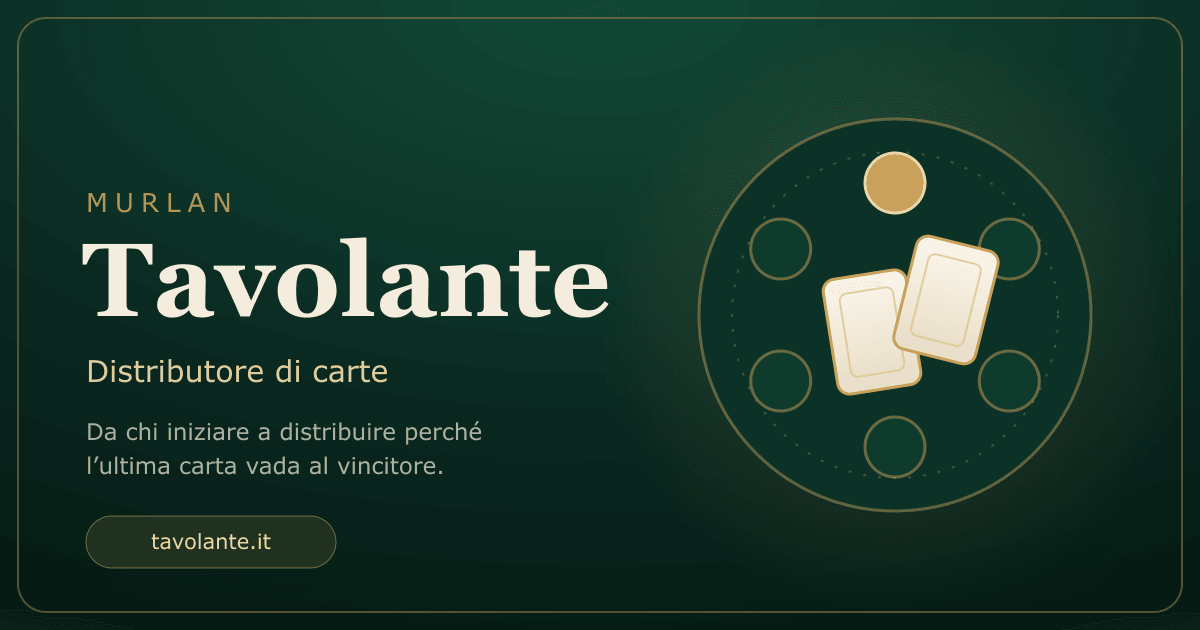
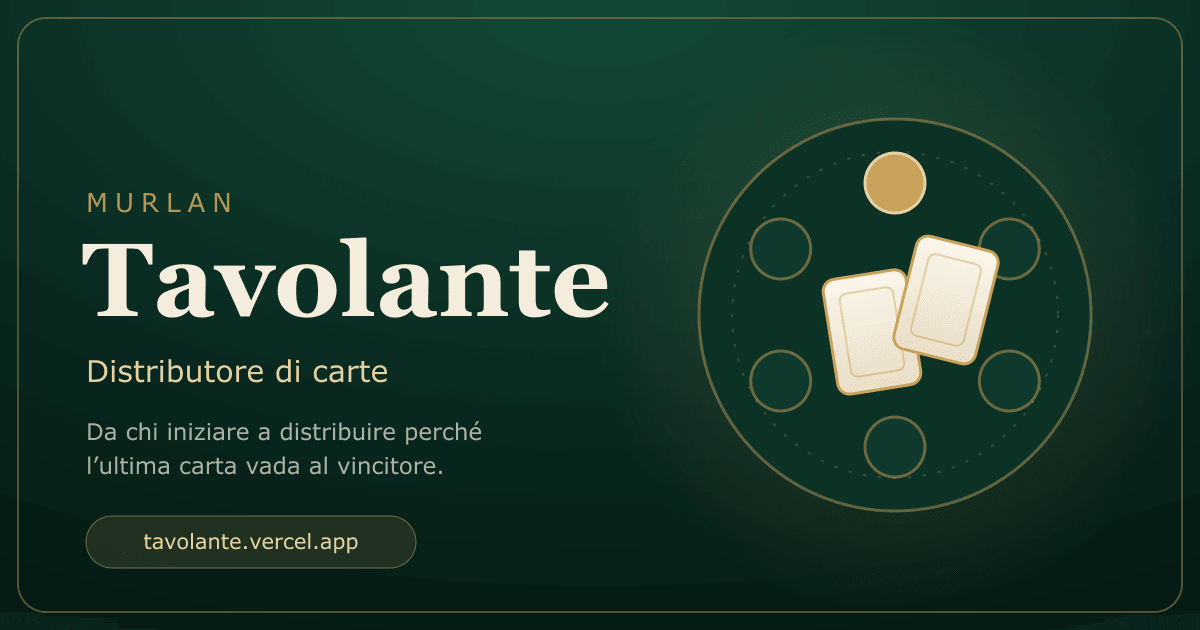
small fixes

Changed region(s): [[0.1233, 0.8143, 0.37, 0.9048], [0.6167, 0.1508, 0.74, 0.2714]]

diff --git a/index.html b/index.html
@@ -25,7 +25,7 @@
       name="description"
       content="Tavolante calcola da quale giocatore iniziare a distribuire perché l'ultima carta arrivi al vincitore della mano precedente. Gratis e installabile."
     />
-    <link rel="canonical" href="https://tavolante.it/" />
+    <link rel="canonical" href="https://tavolante.vercel.app/" />
     <meta name="robots" content="index, follow, max-image-preview:large" />
     <meta name="application-name" content="Tavolante" />
     <meta name="color-scheme" content="dark" />
@@ -36,7 +36,7 @@
     <meta property="og:type" content="website" />
     <meta property="og:site_name" content="Tavolante" />
     <meta property="og:locale" content="it_IT" />
-    <meta property="og:url" content="https://tavolante.it/" />
+    <meta property="og:url" content="https://tavolante.vercel.app/" />
     <meta
       property="og:title"
       content="Tavolante — Distributore di carte per il Murlan"
@@ -45,7 +45,10 @@
       property="og:description"
       content="Da chi iniziare a distribuire perché l'ultima carta arrivi al vincitore della mano precedente. Scegli giocatori, mazzo e senso: ci pensa Tavolante."
     />
-    <meta property="og:image" content="https://tavolante.it/og-cover.png" />
+    <meta
+      property="og:image"
+      content="https://tavolante.vercel.app/og-cover.png"
+    />
     <meta property="og:image:type" content="image/png" />
     <meta property="og:image:width" content="1200" />
     <meta property="og:image:height" content="630" />
@@ -62,7 +65,10 @@
       name="twitter:description"
       content="Da chi iniziare a distribuire perché l'ultima carta arrivi al vincitore della mano precedente. Scegli giocatori, mazzo e senso: ci pensa Tavolante."
     />
-    <meta name="twitter:image" content="https://tavolante.it/og-cover.png" />
+    <meta
+      name="twitter:image"
+      content="https://tavolante.vercel.app/og-cover.png"
+    />
     <meta
       name="twitter:image:alt"
       content="Tavolante: un tavolo da gioco con sei posti e due carte al centro."
@@ -76,7 +82,7 @@
         "@type": "WebApplication",
         "name": "Tavolante",
         "alternateName": "Tavolante — Distributore di carte",
-        "url": "https://tavolante.it/",
+        "url": "https://tavolante.vercel.app/",
         "description": "Tavolante calcola da quale giocatore iniziare a distribuire le carte nel Murlan perché l'ultima carta del mazzo arrivi al vincitore della mano precedente.",
         "applicationCategory": "GameApplication",
         "applicationSubCategory": "Utilità per giochi di carte",
@@ -97,7 +103,7 @@
           "Nomi e personaggi per ogni giocatore",
           "Funziona offline una volta installata"
         ],
-        "screenshot": "https://tavolante.it/og-cover.png"
+        "screenshot": "https://tavolante.vercel.app/og-cover.png"
       }
     </script>
 

diff --git a/src/components/Controls.tsx b/src/components/Controls.tsx
@@ -53,6 +53,26 @@ export default function Controls({
 
   return (
     <section className="flex shrink-0 flex-col gap-2.5 rounded-[20px] border border-gold/18 bg-felt-3/55 p-3.5 backdrop-blur-[6px]">
+      <div className="flex gap-2">
+        <button
+          type="button"
+          className="flex-1 cursor-pointer rounded-[14px] bg-[linear-gradient(180deg,var(--color-gold-bright),var(--color-gold))] p-3.5 font-display text-[16px] font-bold text-ink shadow-[0_6px_14px_rgba(201,161,90,0.25)] transition-[scale,translate,box-shadow,opacity] duration-120 ease-out not-disabled:active:translate-y-px not-disabled:active:scale-99 not-disabled:active:shadow-[0_3px_8px_rgba(201,161,90,0.2)] disabled:cursor-default disabled:opacity-55"
+          disabled={disabled}
+          onClick={onDeal}
+        >
+          Distribuisci le carte
+        </button>
+        <button
+          type="button"
+          className="cursor-pointer rounded-[14px] border border-cream/20 bg-cream/6 px-4 py-3.5 text-[13px] font-semibold text-cream/85 not-disabled:active:bg-cream/16 disabled:cursor-default disabled:opacity-55"
+          disabled={disabled}
+          onClick={onReset}
+          aria-label="Ripristina i valori predefiniti"
+        >
+          Reset
+        </button>
+      </div>
+
       <div className={FIELD_CLASS}>
         <span className={FIELD_LABEL_CLASS}>Giocatori</span>
         <div className="flex items-center justify-between">
@@ -145,26 +165,6 @@ export default function Controls({
             Antiorario
           </button>
         </div>
-      </div>
-
-      <div className="flex gap-2">
-        <button
-          type="button"
-          className="flex-1 cursor-pointer rounded-[14px] bg-[linear-gradient(180deg,var(--color-gold-bright),var(--color-gold))] p-3.5 font-display text-[16px] font-bold text-ink shadow-[0_6px_14px_rgba(201,161,90,0.25)] transition-[scale,translate,box-shadow,opacity] duration-120 ease-out not-disabled:active:translate-y-px not-disabled:active:scale-99 not-disabled:active:shadow-[0_3px_8px_rgba(201,161,90,0.2)] disabled:cursor-default disabled:opacity-55"
-          disabled={disabled}
-          onClick={onDeal}
-        >
-          Distribuisci le carte
-        </button>
-        <button
-          type="button"
-          className="cursor-pointer rounded-[14px] border border-cream/20 bg-cream/6 px-4 py-3.5 text-[13px] font-semibold text-cream/85 not-disabled:active:bg-cream/16 disabled:cursor-default disabled:opacity-55"
-          disabled={disabled}
-          onClick={onReset}
-          aria-label="Ripristina i valori predefiniti"
-        >
-          Reset
-        </button>
       </div>
     </section>
   )

diff --git a/src/lib/avatars.ts b/src/lib/avatars.ts
@@ -21,8 +21,9 @@ const ALL_AVATARS: Avatar[] = Object.entries(files)
   .sort((a, b) => a.id.localeCompare(b.id, 'it', { numeric: true }))
 
 /**
- * Easter egg: these avatars are hidden from the picker and get assigned on their own
- * when a player is named after one of them.
+ * Easter egg: these avatars stay out of the picker until a player is named after one
+ * of them, and even then they are only appended at the end of the grid — they have to
+ * be spotted and picked by hand, they are never assigned on their own.
  */
 const EASTER_EGG_BY_NAME: Record<string, string> = {
   chiara: 'chiaraRucaj',
@@ -35,16 +36,29 @@ const EASTER_EGG_BY_NAME: Record<string, string> = {
 
 const EASTER_EGG_IDS = new Set(Object.values(EASTER_EGG_BY_NAME))
 
-/** Avatars offered in the drawer — the easter egg ones stay out of the grid. */
+/** Avatars always offered in the drawer — the easter egg ones stay out of the grid. */
 export const AVATARS: Avatar[] = ALL_AVATARS.filter(
   (avatar) => !EASTER_EGG_IDS.has(avatar.id),
 )
 
-export const avatarSrc = (avatarId: string | null) =>
-  avatarId ? (ALL_AVATARS.find((avatar) => avatar.id === avatarId)?.src ?? null) : null
+const findAvatar = (avatarId: string | null): Avatar | null =>
+  avatarId ? (ALL_AVATARS.find((avatar) => avatar.id === avatarId) ?? null) : null
 
-export const easterEggAvatar = (name: string): string | null =>
-  EASTER_EGG_BY_NAME[name.trim().toLowerCase()] ?? null
+export const avatarSrc = (avatarId: string | null) => findAvatar(avatarId)?.src ?? null
 
-export const isEasterEggAvatar = (avatarId: string | null) =>
-  avatarId !== null && EASTER_EGG_IDS.has(avatarId)
+/**
+ * The grid shown for one player: the shared avatars, then the easter egg unlocked by
+ * their name. The one already picked stays in the list too, so a later rename does not
+ * make the current selection disappear from the grid.
+ */
+export const avatarChoices = (name: string, selectedId: string | null): Avatar[] => {
+  const unlocked = [EASTER_EGG_BY_NAME[name.trim().toLowerCase()], selectedId].filter(
+    (id): id is string => id !== undefined && id !== null && EASTER_EGG_IDS.has(id),
+  )
+
+  const extras = [...new Set(unlocked)]
+    .map(findAvatar)
+    .filter((avatar): avatar is Avatar => avatar !== null)
+
+  return extras.length > 0 ? [...AVATARS, ...extras] : AVATARS
+}

diff --git a/src/components/CardTable.tsx b/src/components/CardTable.tsx
@@ -60,11 +60,9 @@ const seatSkin = ({ hasAvatar, isWinner, isStart, editing }: SeatState) => {
       ? 'shadow-[0_0_0_3px_rgba(201,161,90,0.18)]'
       : '';
 
-  // L'avatar viene ritagliato dal contenitore solo quando non serve far uscire la matita.
-  const clipping =
-    !editing && hasAvatar ? 'overflow-hidden' : 'overflow-visible';
-
-  return `${surface} ${ink} ${glow} ${clipping}`;
+  /* Il posto non ritaglia mai: la stellina del vincitore e la matita sporgono
+     dal cerchio. È l'avatar a ritagliarsi da solo (clip-path). */
+  return `${surface} ${ink} ${glow} overflow-visible`;
 };
 
 type CardTableProps = {
@@ -187,7 +185,6 @@ export default function CardTable({
               profile={profile}
               index={index}
               isWinner={isWinner}
-              editing={editing}
             />
             <span
               className={`pointer-events-none absolute -right-0.5 -bottom-0.5 flex aspect-square w-[42%] items-center justify-center rounded-full bg-gold text-[clamp(8px,2.2vw,11px)] text-ink transition-[opacity,scale] duration-180 ease-out ${
@@ -236,7 +233,6 @@ export default function CardTable({
             profile={profiles[ghostIndex] ?? EMPTY_PROFILE}
             index={ghostIndex}
             isWinner={ghostIndex === winnerIndex}
-            editing
           />
         </div>
       )}
@@ -248,10 +244,9 @@ type SeatContentProps = {
   profile: PlayerProfile;
   index: number;
   isWinner: boolean;
-  editing: boolean;
 };
 
-function SeatContent({ profile, index, isWinner, editing }: SeatContentProps) {
+function SeatContent({ profile, index, isWinner }: SeatContentProps) {
   const src = avatarSrc(profile.avatarId);
   const initials = profileInitials(profile.name);
 
@@ -267,9 +262,7 @@ function SeatContent({ profile, index, isWinner, editing }: SeatContentProps) {
       </span>
       {src ? (
         <img
-          className={`pointer-events-none absolute inset-0 size-full rounded-full object-cover [-webkit-user-drag:none] ${
-            editing ? '[clip-path:circle(50%)]' : ''
-          }`}
+          className='pointer-events-none absolute inset-0 size-full rounded-full object-cover [-webkit-user-drag:none] [clip-path:circle(50%)]'
           src={src}
           alt=''
           draggable={false}

diff --git a/src/components/PlayerDrawer.tsx b/src/components/PlayerDrawer.tsx
@@ -1,5 +1,5 @@
 import { useEffect, useState } from 'react'
-import { AVATARS, avatarSrc } from '../lib/avatars'
+import { avatarChoices, avatarSrc } from '../lib/avatars'
 import { MIN_PLAYERS } from '../lib/dealing'
 import {
   MAX_NAME_LENGTH,
@@ -42,6 +42,7 @@ export default function PlayerDrawer({
 
   const initials = profileInitials(profile.name)
   const preview = avatarSrc(profile.avatarId)
+  const avatars = avatarChoices(profile.name, profile.avatarId)
   const isCustomised = profile.name !== '' || profile.avatarId !== null
 
   const avatarOptionClass = (active: boolean) =>
@@ -113,7 +114,7 @@ export default function PlayerDrawer({
 
         <div className={FIELD_CLASS}>
           <span className={LABEL_CLASS}>Personaggio</span>
-          {AVATARS.length === 0 ? (
+          {avatars.length === 0 ? (
             <p className="m-0 rounded-xl border border-dashed border-cream/22 p-3 text-[12.5px] leading-normal text-cream/60">
               Nessun personaggio disponibile: aggiungi le immagini in{' '}
               <code className="font-mono text-[11.5px] text-gold-light">
@@ -135,7 +136,7 @@ export default function PlayerDrawer({
               >
                 {initials || index + 1}
               </button>
-              {AVATARS.map((avatar) => (
+              {avatars.map((avatar) => (
                 <button
                   key={avatar.id}
                   type="button"

diff --git a/src/App.tsx b/src/App.tsx
@@ -12,12 +12,7 @@ import {
   resolveDeckSize,
   type Direction,
 } from './lib/dealing';
-import {
-  applyEasterEgg,
-  EMPTY_PROFILE,
-  type PlayerProfile,
-  type Settings,
-} from './lib/settings';
+import { EMPTY_PROFILE, type Settings } from './lib/settings';
 
 const EDIT_TOGGLE_BASE =
   'inline-flex cursor-pointer items-center gap-1.5 rounded-full border px-4 py-2 text-[12.5px] font-semibold transition-[background-color,border-color,color] duration-180 ease-out disabled:cursor-default disabled:opacity-45';
@@ -65,14 +60,6 @@ export default function App() {
     setEditing(false);
     setEditIndex(null);
     reset();
-  };
-
-  const handleProfileChange = (
-    index: number,
-    patch: Partial<PlayerProfile>,
-  ) => {
-    const current = settings.profiles[index] ?? EMPTY_PROFILE;
-    updateProfile(index, applyEasterEgg(current, patch));
   };
 
   const handleReorder = (from: number, to: number) => {
@@ -202,7 +189,7 @@ export default function App() {
           index={editIndex}
           profile={settings.profiles[editIndex] ?? EMPTY_PROFILE}
           canRemove={settings.players > MIN_PLAYERS}
-          onChange={(patch) => handleProfileChange(editIndex, patch)}
+          onChange={(patch) => updateProfile(editIndex, patch)}
           onRemove={() => handleRemovePlayer(editIndex)}
           onClose={() => setEditIndex(null)}
         />

diff --git a/src/lib/settings.ts b/src/lib/settings.ts
@@ -1,4 +1,3 @@
-import { easterEggAvatar, isEasterEggAvatar } from './avatars'
 import {
   clamp,
   MAX_CARDS,
@@ -39,23 +38,6 @@ export const DEFAULT_SETTINGS: Settings = {
 
 /** Initials shown on the seat when the player has a name but no avatar. */
 export const profileInitials = (name: string) => name.trim().slice(0, 3).toUpperCase()
-
-/**
- * Naming a player after one of the easter egg characters hands them that portrait;
- * renaming them away from it takes it back. Picking an avatar from the grid afterwards
- * overrides it, since that patch carries an explicit avatarId.
- */
-export const applyEasterEgg = (
-  current: PlayerProfile,
-  patch: Partial<PlayerProfile>,
-): Partial<PlayerProfile> => {
-  if (patch.name === undefined || patch.avatarId !== undefined) return patch
-
-  const egg = easterEggAvatar(patch.name)
-  if (egg) return { ...patch, avatarId: egg }
-  if (isEasterEggAvatar(current.avatarId)) return { ...patch, avatarId: null }
-  return patch
-}
 
 const STORAGE_KEY = 'tavolante:settings:v1'
 

diff --git a/README.md b/README.md
@@ -58,9 +58,10 @@ cambia il favicon.
 
 ## SEO e anteprima nelle condivisioni
 
-Il sito vive su **https://tavolante.it/**: l'indirizzo è scritto in `index.html`
-(canonical, `og:url`, JSON-LD), in `public/robots.txt` e in `public/sitemap.xml`.
-Se cambia il dominio vanno aggiornati tutti e tre.
+Il sito vive su **https://tavolante.vercel.app/**: l'indirizzo è scritto in
+`index.html` (canonical, `og:url`, JSON-LD), in `public/robots.txt`, in
+`public/sitemap.xml` e nel badge disegnato da `scripts/build-og.mjs`. Se cambia
+il dominio vanno aggiornati tutti e quattro (e va rilanciato `npm run og`).
 
 `index.html` contiene, statici nell'`<head>`:
 
